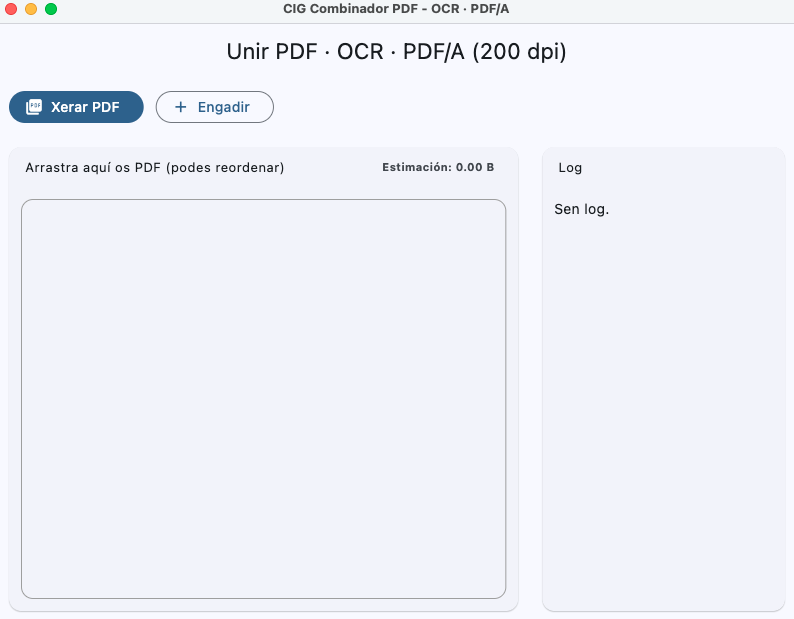
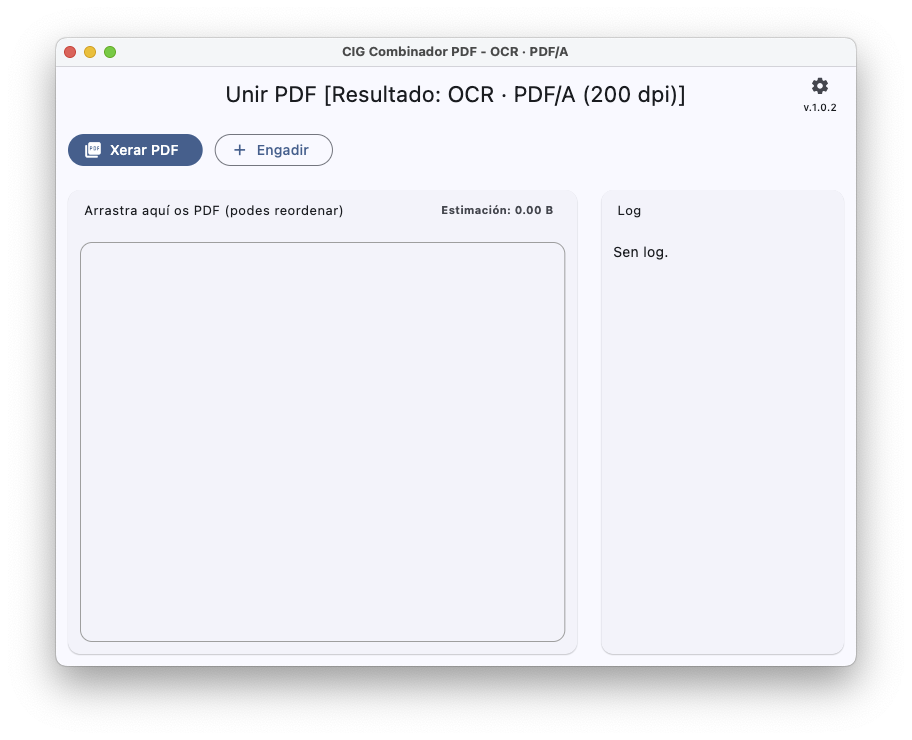
posta ao dia docu e novos pantallazos

Changed region(s): [[0.0, 0.0, 0.9673, 0.9515], [0.665, 0.2456, 0.7557, 0.3683], [0.8766, 0.0921, 0.9068, 0.1535]]

diff --git a/README.md b/README.md
@@ -19,7 +19,7 @@ Xunta PDFs nun só según os requerimentos dos xulgados
 - **Controla o límite de 4 GB** con estimación previa e comprobacións reais
 - UI simple con progreso e opcións básicas
 
-> **Dependencias externas (gratuítas):** `qpdf`, `ocrmypdf`, `tesseract`, `ghostscript` deben estar instalados e no PATH. En macOS pódese vía Homebrew: `brew install qpdf ocrmypdf tesseract ghostscript`. A 2025-09-28 os paths están hardcodeados para desenvolvemento en macos, ver `const candidates` en _which()
+> **Dependencias externas (gratuítas):** `qpdf`, `ocrmypdf`, `tesseract`, `ghostscript` deben estar instalados e no PATH. En macOS pódese vía Homebrew: `brew install qpdf ocrmypdf tesseract ghostscript`. En windows empréganse versión autocontidas (ver https://github.com/alexandregz/ocrmypdf_portable_windows)
 
 
 ## Dependencias
@@ -42,13 +42,31 @@ Xunta PDFs nun só según os requerimentos dos xulgados
    - **OCR + PDF/A + 200 dpi** con `ocrmypdf` → comproba tamaño
    - Garda o resultado
 
+Pódese desactivar o uso de `ocrmypdf` e simplemente unir PDFs con `qpdf`.
 
 ## Personalizacións
 
-- **Tipo de PDF/A**: `ocrmypdf` xera PDF/A-2b por defecto. Podes engadir flags adicionais (ex.: `--pdfa-1`, `--pdfa-3`) se a túa versión os soporta, modificando `_ocrPdfA`.
+- **Tipo de PDF/A**: `ocrmypdf` xera PDF/A-2b por defecto. Podes engadir flags adicionais (ex.: `--pdfa-1`, `--pdfa-3`) se a túa versión os soporta, engadindo parámetros adicionas en `Axustes`.
 - **Idiomas OCR**: cambia `_settings.ocrLanguages` (ex.: `glg+spa+por+eng`). Debes ter os datos de idioma instalados en Tesseract.
 - **Optimización de tamaño**: axusta `_settings.optimizeLevel` (0–3). 3 é máis agresivo.
 
+## Desactivado ocrmypdf
+
+En `Axustes` pódese desactivar o uso de ocrmypdf, así como personalizar o uso con parámetros.
+
+Como exemplo, combinando 3 PDFs pequenos:
+
+- Sen ocrmypdf:
+```
+Feito en 0:00:00.086811. Gardado en: /Users/alex/Desktop/documento_final.pdf
+```
+
+- Con ocrmypdf:
+```
+ocrmypdf durou 0:00:10.411909
+Tamaño final: 1.12 MB
+Feito en 0:00:10.610828. Gardado en: /Users/alex/Desktop/documento_final.pdf
+```
 
 
 ## Dependencias
@@ -65,7 +83,11 @@ Xunta PDFs nun só según os requerimentos dos xulgados
 - **OCR**: os argumentos actuais están en `ocrArgs`, por se cómpre revisalos
 - **Tipo de PDF/A**: `ocrmypdf` xera PDF/A-2b por defecto. Poderíanse engadir flags adicionais (ex.: `--pdfa-1`, `--pdfa-3`) se a versión os soporta.
 - en `windows` emprega `ocrmypdf` autocontido en proxecto propio: https://github.com/alexandregz/ocrmypdf_portable_windows
+- Pódese empregar `--redo-ocr` en `ocrmypdf` como parámetro en lugar de `--skip-text` (opción empregada por defecto). Empregando `--skip-text`, un PDF de 33M e 170 pax mergeado con outro de 3M e 374 pax. de texto e outro de 300K en lugar de empregar 15 minutos tarda 45 segundos e segue a devolver un PDF/A OCR. Pola contra con `--redo-ocr` convirte en lexible todas as páxinas ainda sen o ser no orixinal.
 
+Cos mesmos ficheiros:
+- `--skip-text` ==  `Feito en 0:00:45.114569` (45 seg.)
+- `--redo-ocr` == `Feito en 0:16:50.251696` (16 min.)
 
 ## Construir versionado en windows
 
@@ -79,17 +101,6 @@ Xunta PDFs nun só según os requerimentos dos xulgados
 
 - Validador PDF/A online: https://www.pdf2go.com/validate-pdfa
 - Validador PDF/A online: https://www.pdfforge.org/online/en/validate-pdfa
-
-
-
-## ToDo
-
-- **Windows**: control de todas as dependencias, o usuario non debe ter que instalar nada.
-- Opción de empregar `--redo-ocr` en `ocrmypdf` como parámetro en lugar de `--skip-text`. Agora mesmo empregando `--skip-text`, un PDF de 33M e 170 pax mergeado con outro de 3M e 374 pax. de texto e outro de 300K en lugar de empregar 15 minutos tarda 45 segundos e segue a devolver un PDF/A OCR. Pola contra con `--redo-ocr` convirte en lexible todas as páxinas ainda sen o ser no orixinal.
-
-Cos mesmos ficheiros:
-- `--skip-text` ==  `Feito en 0:00:45.114569` (45 seg.)
-- `--redo-ocr` == `Feito en 0:16:50.251696` (16 min.)
 
 
 
@@ -124,3 +135,15 @@ Para eliminar un ficheiro do documento final, simplemente pincha na cruz á dere
 ![eliminar](imaxes/009%20eliminar%20ficheiro.png)
 
 ![eliminado](imaxes/010%20eliminar%20ficheiro.png)
+
+
+### Axustes
+
+![botón Axustes](imaxes/011%20axustes.png)
+
+![Axustes](imaxes/012%20axustes.png)
+
+![Axustes abaixo](imaxes/013%20axustes.png)
+
+macos:
+![Acerca de](imaxes/014%20about.png)
